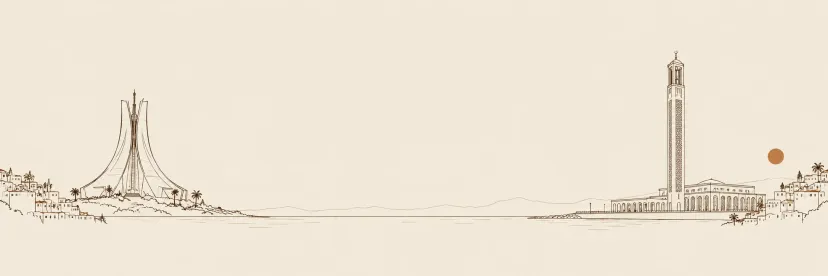
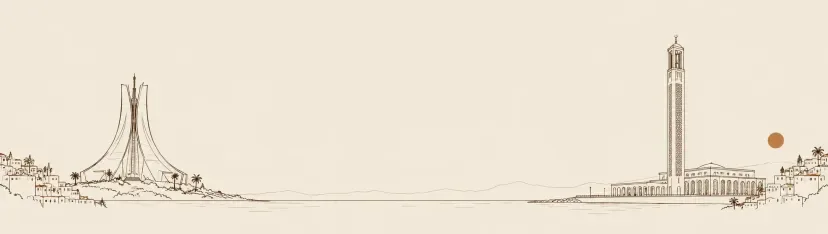
fix(hero): let the artwork stand in the flow on a phone
The art was absolute, so the content box had to reserve room for it with
pb-[calc(33.4vw+1rem)], a number that only holds while all three markets share
one aspect ratio. They no longer do, and the reserve was wrong in both
directions: 30px of empty ground under the subtitle and another 29px between the
skyline and the search field at 360px wide.

On a phone the picture now sits in normal flow between the two, bleeding to the
full width with -mx-4, and the hero keeps a plain pb-9. From md up nothing
changes: the same element goes back to absolute on the section floor. The search
field moves up to mt-1 on a phone and keeps mt-6 on a desktop.

Algeria and Egypt were re-cropped so each keeps roughly the same margin of empty
sky and water rather than a shared ratio: 828x276 to 828x234 and 828x276 to
828x190, at webp q82, both slightly smaller than before. Saudi is untouched
because it only carries 31px of sky and 15px of water and cannot spare any.

The art is lossy webp with no alpha, so it carries its own background, two to
four levels per channel off the section's. That reads as a step across a flat
wash, and now that both edges show on a phone it shows twice. A mask fades each
edge to transparent. The stops are lengths rather than percentages, because with
three aspect ratios the same percentage means a different number of pixels in
each; both fades finish inside the empty margin, checked at 320, 360 and 767
against the first inked row of every asset.
[…]

Changed region(s): [[0.0, 0.4188, 1.0, 0.8974], [0.785, 0.1795, 0.8454, 0.3291]]

diff --git a/apps/ui/src/components/landing/MarketHero.tsx b/apps/ui/src/components/landing/MarketHero.tsx
@@ -84,28 +84,7 @@ export const MarketHero = ({
       aria-labelledby="market-hero-title"
       className="relative isolate flex min-h-[calc(min(100vw,2172px)/2.99)] items-center bg-base-200"
     >
-      {heroArt && (
-        <picture className="pointer-events-none absolute inset-x-0 bottom-0 -z-10 mx-auto block w-full max-w-[2172px] select-none">
-          <source
-            media="(max-width: 767px)"
-            srcSet={heroArtMobile ?? heroArt}
-            sizes="100vw"
-          />
-          <source
-            media="(min-width: 768px)"
-            srcSet={`${heroArtDesktop ?? heroArt} 1440w, ${heroArt} 2172w`}
-            sizes="(max-width: 2172px) 100vw, 2172px"
-          />
-          <img
-            src={heroArt}
-            alt=""
-            fetchPriority="high"
-            decoding="async"
-            className="block h-auto w-full"
-          />
-        </picture>
-      )}
-      <div className="mx-auto flex w-full max-w-content flex-col items-center px-4 pt-10 pb-[calc(33.4vw+1rem)] text-center md:px-8 md:pt-14 md:pb-14">
+      <div className="mx-auto flex w-full max-w-content flex-col items-center px-4 pt-10 pb-9 text-center md:px-8 md:pt-14 md:pb-14">
         <div className="@container w-full">
           <h1
             id="market-hero-title"
@@ -118,9 +97,31 @@ export const MarketHero = ({
           {hero_subtitle({}, { locale })}
         </p>
 
+        {heroArt && (
+          <picture className="hero-art pointer-events-none -mx-4 mt-2 block w-[calc(100%+2rem)] select-none md:absolute md:inset-x-0 md:bottom-0 md:-z-10 md:mx-auto md:mt-0 md:w-full md:max-w-[2172px]">
+            <source
+              media="(max-width: 767px)"
+              srcSet={heroArtMobile ?? heroArt}
+              sizes="100vw"
+            />
+            <source
+              media="(min-width: 768px)"
+              srcSet={`${heroArtDesktop ?? heroArt} 1440w, ${heroArt} 2172w`}
+              sizes="(max-width: 2172px) 100vw, 2172px"
+            />
+            <img
+              src={heroArt}
+              alt=""
+              fetchPriority="high"
+              decoding="async"
+              className="block h-auto w-full"
+            />
+          </picture>
+        )}
+
         <div
           role="search"
-          className="mt-6 flex h-12 w-full max-w-lg items-center rounded-full border border-base-300 bg-base-100 ps-2 pe-1.5 focus-within:border-secondary md:h-13"
+          className="mt-1 flex h-12 w-full max-w-lg items-center rounded-full border border-base-300 bg-base-100 ps-2 pe-1.5 focus-within:border-secondary md:mt-6 md:h-13"
         >
           <HeroCitySearch
             marketCode={market.code}

diff --git a/libs/ui/src/styles.css b/libs/ui/src/styles.css
@@ -290,3 +290,28 @@
   }
 }
 
+/* The hero artwork is lossy WebP with no alpha channel, so it carries its own background:
+   #f1e8d9 at the top edge and #f2e9da at the bottom, against the section's #f3ebdd. Two to
+   four levels per channel is nothing on a photograph and plainly visible as a step across a
+   flat wash, which is what the hero is. On a wide screen the art sits on the section's floor
+   and only its top edge meets that wash, low enough to read as the horizon; on a phone it sits
+   in the flow between the subtitle and the search field, and both edges show.
+
+   Fading the edges to transparent removes the step without touching the asset. The stops are
+   lengths rather than percentages because the three markets no longer share one aspect ratio:
+   Algeria is 828x234, Egypt 828x190, Saudi 828x277, so the same percentage would mean a
+   different number of pixels in each. Every mobile asset was cropped to keep at least 31px of
+   empty sky and 15px of empty water, which is 12.0px and 5.8px once scaled to a 320px viewport,
+   the narrowest we support. Both fades finish inside that margin, so neither erases anything
+   drawn. */
+@media (width < 48rem) {
+  .hero-art {
+    mask-image: linear-gradient(
+      to bottom,
+      transparent 0,
+      #000 10px,
+      #000 calc(100% - 4px),
+      transparent 100%
+    );
+  }
+}
